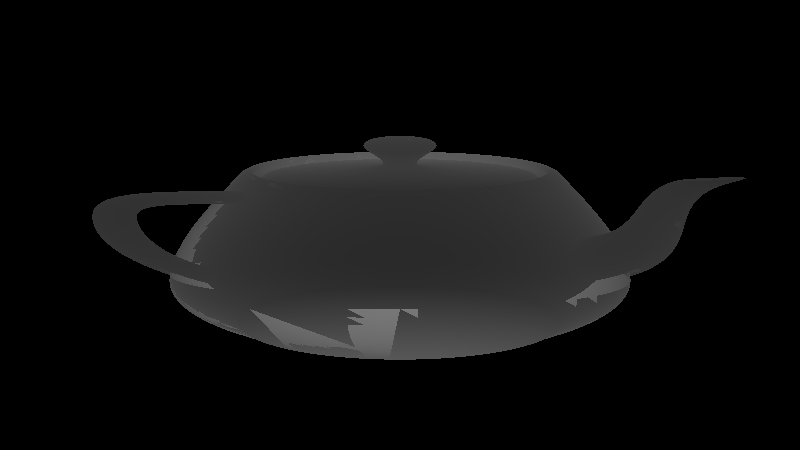
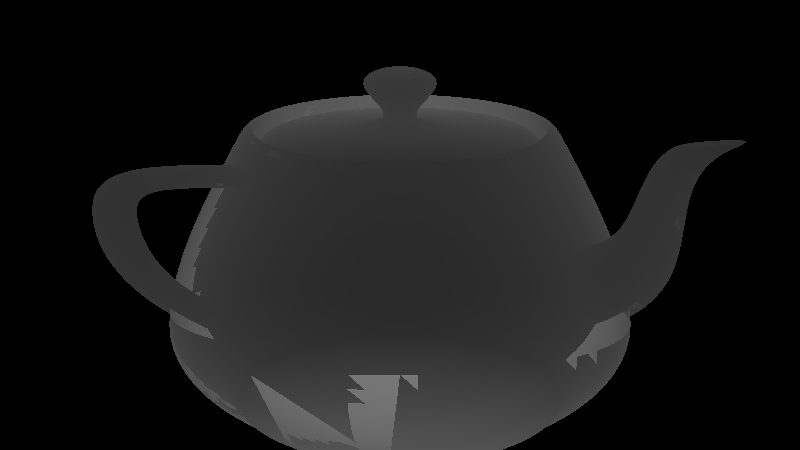
todo:fix raycaster

diff --git a/src/renderer.rs b/src/renderer.rs
@@ -4,7 +4,12 @@ use image;
 use indicatif::ProgressStyle;
 use rayon::prelude::*;
 
-pub fn render_and_save(bvh: BvhTree, rays: Vec<Vec<[f32; 3]>>, path: &String){// [[px; X]; Y]
+pub fn render_and_save(bvh: BvhTree, rays: Vec<Vec<[f32; 3]>>, path: &String){
+  let img = render(bvh, rays);
+  img.save_with_format(path, image::ImageFormat::Png).expect("cant write picture");
+}
+
+fn render(bvh: BvhTree, rays: Vec<Vec<[f32; 3]>>) -> image::RgbImage{// [[px; X]; Y]
 
 	let imgx = rays[0].len();
 	let imgy = rays.len();
@@ -40,26 +45,19 @@ pub fn render_and_save(bvh: BvhTree, rays: Vec<Vec<[f32; 3]>>, path: &String){//
   
   bar.finish();
 	
-	img.save_with_format(path, image::ImageFormat::Png).expect("cant write picture");
+	img
 }
 
 
-
-#[cfg(test)]
-use image::io::Reader;
-#[cfg(test)]
-use crate::get_rays;
-#[cfg(test)]
-use crate::stl_parser::from_ascii;
-#[cfg(test)]
-use std::fs::File;
-#[cfg(test)]
-use std::io::Read;
-
-//#[test]
+//#[test] //TODO
 #[cfg(test)]
 #[allow(unused)]
 fn test(){
+  use image::ImageBuffer;
+  use std::{fs::File, io::Read};
+  use crate::stl_parser::from_ascii;
+  use crate::raycaster::ray_caster::get_rays;
+
 
   let mut buf = String::new();
 
@@ -68,12 +66,13 @@ fn test(){
   let bvh = BvhTree::from_mesh(from_ascii(buf),
     5, Vec3 { x: 0., y: 1.5, z: -4. });
 
-  let rays = get_rays::<16,9>(90);
+  let rays = get_rays::<4,2>(90);
 
-  render_and_save(bvh, rays, &"tests/teapot_ascii_test.png".to_string());
+  let test = render(bvh, rays);
 
-  let file_real = Reader::open("tests/teapot_ascii_real.png").unwrap().decode().unwrap();//TODO
-  let file_test = Reader::open("tests/teapot_ascii_test.png").unwrap().decode().unwrap();
+  let real = ImageBuffer::from_vec(4, 2, 
+  vec![]
+).unwrap();
 
-  assert_eq!(file_real, file_test);
+  assert_eq!(real, test);
 }

diff --git a/src/raycaster.rs b/src/raycaster.rs
@@ -9,7 +9,11 @@ pub mod ray_caster{
   //0→x
   pub fn get_rays<const X: usize, const Y: usize>(fov: usize) -> Vec<Vec<[f32; 3]>>{
 
-    let a: f32 = f32::tan((fov as f32 / 360f32) * PI);//a = steigung
+    //a = steigung
+    let ax: f32 = f32::tan((fov as f32 / 360f32) * PI);//a/X*Y/1
+    let ay: f32 = (ax*Y as f32)/X as f32;//a/X*Y/1
+
+
     let xf = (X-1) as f32;
     let yf = (Y-1) as f32;
 
@@ -23,8 +27,8 @@ pub mod ray_caster{
       let mut xvec: Vec<[f32; 3]> = Vec::with_capacity(X);
 
       for x in 0..X{
-        let x_calc: f32 = a * (((2*x) as f32 / xf) - 1.);
-        let y_calc: f32 = a * (((2*y) as f32 / yf) - 1.);
+        let x_calc: f32 = ax * (((2*x) as f32 / xf) - 1.);
+        let y_calc: f32 = ay * (((2*y) as f32 / yf) - 1.);
 
         xvec.push([x_calc, y_calc, 1.]);
       }
@@ -69,8 +73,16 @@ fn test(){
 
   let mut comp: Vec<Vec<[f32; 3]>> = Vec::new();
   
-  comp.push(vec![[-1., 1., 1.], [ -0.3333333f32, 1., 1.], [ 0.33333337f32, 1., 1.], [ 1., 1., 1.]]);//y-max
-  comp.push(vec![[-1., -1., 1.], [ -0.3333333f32, -1., 1.], [ 0.33333337f32, -1., 1.], [ 1., -1., 1.]]);//y-min
+  //x_fov = 90, y_fov = 45
+  comp.push(vec![ [-1.        , 0.33333337, 1.],
+                  [-0.3333333 , 0.33333337, 1.],
+                  [ 0.33333337, 0.33333337, 1.],
+                  [ 1.        , 0.33333337, 1.]]
+  );//y-max
+  comp.push(vec![ [-1.        , -0.3333333, 1.],
+                  [-0.3333333 , -0.3333333, 1.],
+                  [ 0.33333337, -0.3333333, 1.],
+                  [ 1.        , -0.3333333, 1.]]);//y-min
 
   assert_eq!(rays, comp);
 }

diff --git a/src/main.rs b/src/main.rs
@@ -30,7 +30,7 @@ fn main() {
   let mesh = object_handler::stl_to_vec(&args[1]);
   
   eprintln!("Creating BVH-Tree from Mesh");
-  let bvh = BvhTree::from_mesh(mesh, 4, camera_pos);//generate BVH tree
+  let bvh = BvhTree::from_mesh(mesh, 10, camera_pos);//generate BVH tree
   
   eprintln!("Pathtracing..");
   let mut rays = get_rays::<{PIXELS.0}, {PIXELS.1}>(fov);
